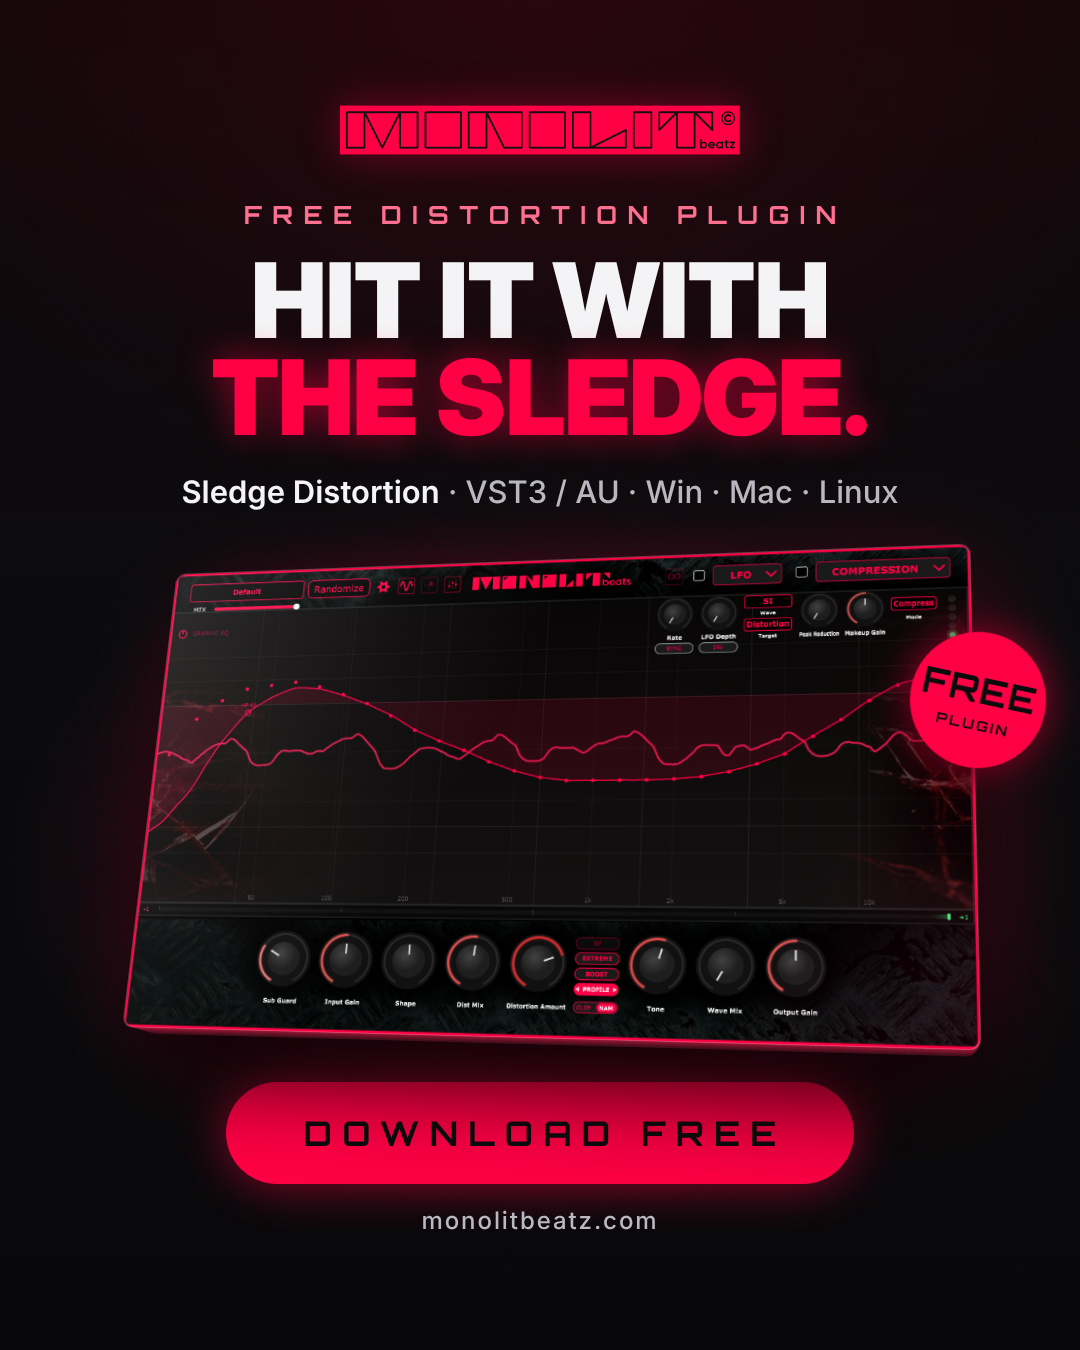
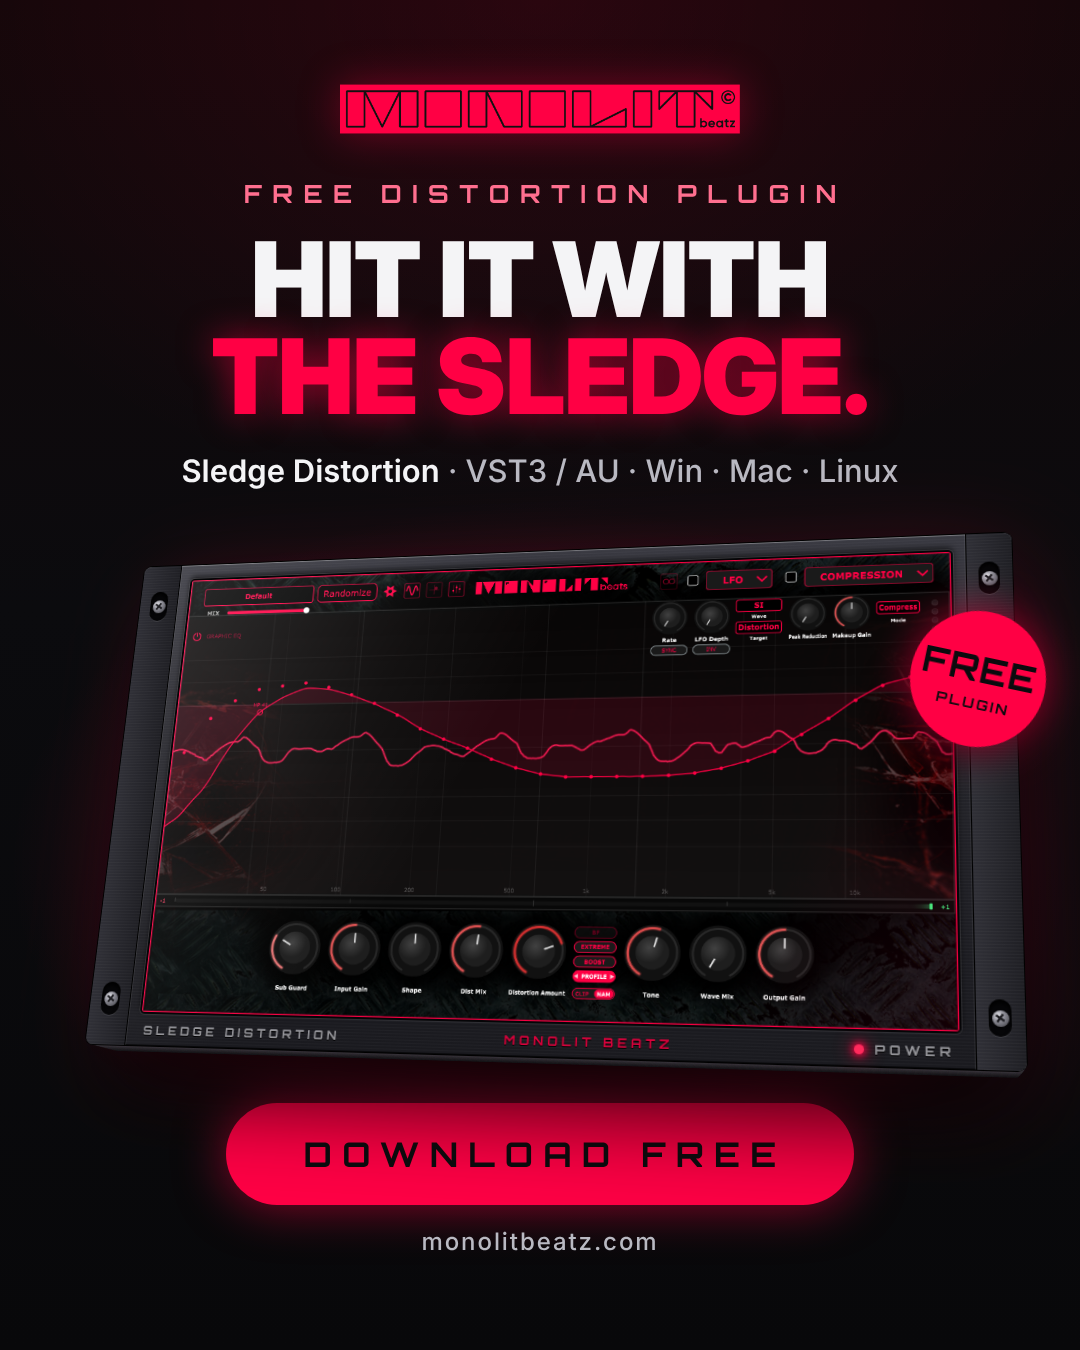
chore: style the launch post's plugin as a rack hardware unit
Brushed gunmetal chassis with rack ears, screws in oval slots, a recessed screen, a printed label strip with a power LED, and metal-shaded sides.

Changed region(s): [[0.0611, 0.0622, 0.9778, 0.9333]]

diff --git a/marketing/launch/post.html b/marketing/launch/post.html
@@ -48,35 +48,84 @@
   .sub b { color: var(--ink); font-weight: 600; }
 
   .stage {
-    position: relative; margin-top: 44px; width: 940px; height: 470px;
+    position: relative; margin-top: 44px; width: 940px; height: 520px;
     perspective: 1600px;
   }
-  body.story .stage { margin-top: 90px; height: 520px; }
+  body.story .stage { margin-top: 90px; height: 560px; }
   /* The window is a slab: a screen face plus stacked layers behind it that
      read as a thick body once rotated. */
   .floor {
-    position: absolute; left: 50%; bottom: -34px; width: 820px; height: 90px;
+    position: absolute; left: 50%; bottom: -34px; width: 880px; height: 90px;
     transform: translateX(-50%) rotate(2deg); border-radius: 50%;
     background: radial-gradient(ellipse at center, rgba(0,0,0,.95), rgba(255,0,68,.18) 55%, transparent 72%);
     filter: blur(18px);
   }
+  /* A rack-style hardware unit: brushed-metal chassis with rack ears and
+     screws, the plugin set into a recessed screen, and a printed label strip.
+     Screen: 804 x 472 (the screenshot's 1200:705). Chassis adds 58 px a side
+     (44 px ear + 14 px bezel), 18 px on top and a 34 px label strip below. */
   .device {
-    position: absolute; left: 50%; top: 50%; width: 840px; aspect-ratio: 1200 / 705;
+    position: absolute; left: 50%; top: 50%; width: 920px; height: 524px;
     transform: translate(-50%, -50%) rotateX(16deg) rotateY(-12deg) rotateZ(3deg);
     transform-style: preserve-3d;
   }
-  /* Each layer's colour is set in the script below: a red-lit lip at the front
-     fading to near black at the back, so the side reads as a shaded body. */
-  .slab { position: absolute; inset: 0; border-radius: 10px; }
-  .slab.back { box-shadow: 0 40px 90px rgba(0,0,0,.85), 0 0 110px rgba(255,0,68,.30); }
+  /* Each layer's colour is set in the script below: a bright machined lip at
+     the front fading to near black at the back, so the side reads as metal. */
+  .slab { position: absolute; inset: 0; border-radius: 8px; }
+  .slab.back { box-shadow: 0 40px 90px rgba(0,0,0,.85), 0 0 110px rgba(255,0,68,.28); }
+  .chassis {
+    position: absolute; inset: 0; border-radius: 8px; transform: translateZ(.5px);
+    background:
+      linear-gradient(118deg, rgba(255,255,255,.10) 0%, transparent 35%),
+      repeating-linear-gradient(0deg, rgba(255,255,255,.028) 0 1px, transparent 1px 3px),
+      linear-gradient(180deg, #3a3a42 0%, #26262c 38%, #1a1a1f 100%);
+    box-shadow: inset 0 1px 0 rgba(255,255,255,.30), inset 0 -1px 0 rgba(0,0,0,.7), 0 0 0 1px #000;
+  }
+  .ear {
+    position: absolute; top: 0; bottom: 0; width: 44px;
+    background:
+      repeating-linear-gradient(0deg, rgba(255,255,255,.03) 0 1px, transparent 1px 3px),
+      linear-gradient(90deg, #303037, #1f1f24);
+  }
+  .ear.l { left: 0; border-radius: 8px 0 0 8px; box-shadow: inset -1px 0 0 #000, 1px 0 0 rgba(255,255,255,.07); }
+  .ear.r { right: 0; border-radius: 0 8px 8px 0; box-shadow: inset 1px 0 0 #000, -1px 0 0 rgba(255,255,255,.07); }
+  .hole {                   /* oval rack-mount slot with a screw in it */
+    position: absolute; left: 50%; width: 20px; height: 34px; transform: translateX(-50%);
+    border-radius: 10px; background: #060608;
+    box-shadow: inset 0 3px 4px rgba(0,0,0,.95), 0 1px 0 rgba(255,255,255,.10);
+    display: flex; align-items: center; justify-content: center;
+  }
+  .hole.t { top: 30px; } .hole.b { bottom: 30px; }
+  .screw {
+    position: relative; width: 15px; height: 15px; border-radius: 50%;
+    background: radial-gradient(circle at 35% 30%, #e4e4ea 0%, #8a8a93 40%, #3a3a40 100%);
+    box-shadow: 0 1px 2px rgba(0,0,0,.9);
+  }
+  .screw::before, .screw::after {
+    content: ""; position: absolute; left: 50%; top: 50%; width: 9px; height: 2px;
+    background: #1c1c20; transform: translate(-50%, -50%) rotate(35deg);
+  }
+  .screw::after { transform: translate(-50%, -50%) rotate(125deg); }
   .screen {
-    position: absolute; inset: 0; border-radius: 10px; overflow: hidden;
-    transform: translateZ(.5px);
-    border: 1.5px solid #ff0044;
+    position: absolute; left: 58px; right: 58px; top: 18px; height: 472px;
+    border-radius: 3px; overflow: hidden;
     box-shadow:
-      0 0 0 1px rgba(255,150,175,.35),        /* bevel catch-light outside the frame */
-      inset 0 1px 0 rgba(255,255,255,.28),    /* top edge highlight */
+      0 0 0 2px #050507,                        /* gasket */
+      0 0 0 3px rgba(255,255,255,.10),          /* machined edge of the cut-out */
+      0 -3px 6px 2px rgba(0,0,0,.6),            /* recess shadow under the top bezel */
       inset 0 0 24px rgba(0,0,0,.55);
+  }
+  .strip {
+    position: absolute; left: 58px; right: 58px; bottom: 0; height: 34px;
+    display: flex; align-items: center; justify-content: space-between; padding: 2px 4px 0;
+    font-family: "Orbitron"; font-weight: 700; font-size: 12px; letter-spacing: .32em;
+    color: rgba(235,235,242,.62); text-shadow: 0 1px 0 rgba(0,0,0,.9);
+  }
+  .strip .brand { color: rgba(255,0,68,.85); }
+  .strip .power { display: flex; align-items: center; gap: 10px; }
+  .led {
+    width: 9px; height: 9px; border-radius: 50%; background: #ff2a5c;
+    box-shadow: 0 0 6px 2px rgba(255,0,68,.8), 0 0 16px 4px rgba(255,0,68,.35);
   }
   .screen img { display: block; width: 100%; height: 100%; }
   .screen::after {          /* glass sheen across the face */
@@ -95,7 +144,7 @@
   .badge .small { font-size: 14px; letter-spacing: .18em; margin-top: 4px; }
 
   .cta {
-    margin-top: 58px; padding: 30px 78px; border-radius: 999px; background: var(--red);
+    margin-top: 50px; padding: 30px 78px; border-radius: 999px; background: var(--red);
     color: #0b0b0e; font-family: "Orbitron"; font-weight: 700; font-size: 34px;
     letter-spacing: .3em; padding-right: calc(78px - .3em);
     box-shadow: 0 0 50px rgba(255,0,68,.55);
@@ -114,7 +163,16 @@
     <div class="stage">
       <div class="floor"></div>
       <div class="device" id="device">
-        <div class="screen"><img src="assets/ui.png" alt="Sledge Distortion interface"></div>
+        <div class="chassis">
+          <div class="ear l"><div class="hole t"><div class="screw"></div></div><div class="hole b"><div class="screw"></div></div></div>
+          <div class="ear r"><div class="hole t"><div class="screw"></div></div><div class="hole b"><div class="screw"></div></div></div>
+          <div class="screen"><img src="assets/ui.png" alt="Sledge Distortion interface"></div>
+          <div class="strip">
+            <span>SLEDGE DISTORTION</span>
+            <span class="brand">MONOLIT BEATZ</span>
+            <span class="power"><span class="led"></span>POWER</span>
+          </div>
+        </div>
       </div>
       <div class="badge"><span class="big">FREE</span><span class="small">PLUGIN</span></div>
     </div>
@@ -137,11 +195,11 @@
       h.style.fontSize = (size -= 2) + "px";
     }
     // Build the slab's thickness: 1 px layers stepping back DEPTH px, shaded
-    // from a bright lip through a red-lit body to near black at the back.
+    // from a machined lip through a gunmetal body to near black at the back.
     const device = document.getElementById("device");
     const DEPTH = 58, STEP = 1, LIP = 3;
     const mix = (a, b, t) => a.map((v, i) => Math.round(v + (b[i] - v) * t));
-    const LIP_RGB = [255, 60, 105], FRONT = [176, 22, 58], BACK = [58, 10, 22];
+    const LIP_RGB = [150, 150, 160], FRONT = [66, 60, 68], BACK = [16, 15, 18];
     for (let z = STEP; z <= DEPTH; z += STEP) {
       const s = document.createElement("div");
       s.className = "slab" + (z + STEP > DEPTH ? " back" : "");
